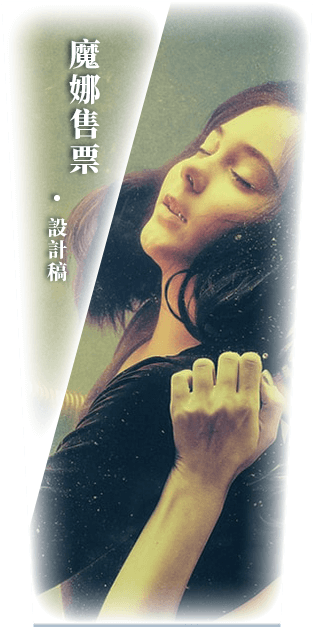
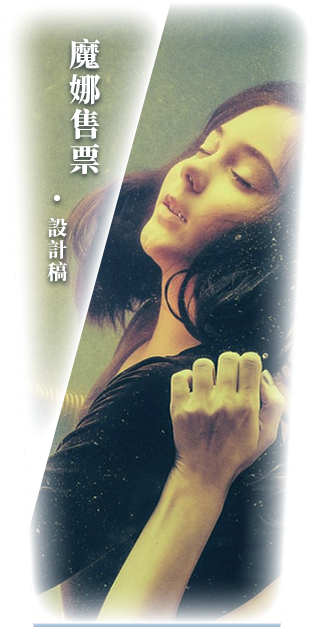
魔娜陰影微調

Changed region(s): [[0.2006, 0.1515, 0.3153, 0.303], [0.1433, 0.303, 0.2293, 0.4545], [0.2006, 0.0606, 0.3153, 0.1515]]

diff --git a/index.html b/index.html
@@ -167,11 +167,11 @@
                         <ul class="skill-list">
                             <li class="animated-l">
                                 <h5>影像處理</h5>
-                                <h6>✦ Illustrator　✦ Photoshop　✦ Painter　✦ Clip Studio Paint　✦ Procreate</h6>
+                                <h6>✦ Photoshop　✦ Illustrator　✦ Painter　✦ Clip Studio Paint　✦ Procreate</h6>
                             </li>
                             <li class="animated-l">
                                 <h5>程式設計</h5>
-                                <h6>✦ HTML　✦ CSS　✦Bootstrap　✦WordPress　✦ jQuery　✦ C#</h6>
+                                <h6>✦ HTML　✦ CSS　✦ jQuery　✦Bootstrap　✦WordPress　✦ C#</h6>
                             </li>
                             <li class="animated-l">
                                 <h5>多媒體設計</h5>
@@ -179,7 +179,7 @@
                             </li>
                             <li class="animated-l">
                                 <h5>專案溝通</h5>
-                                <h6>✦ Adobe XD　✦ Figma　✦ Zeplin　✦ Git　✦ GitHub</h6>
+                                <h6>✦ Adobe XD　✦ Figma　✦ GitHub　✦ Git</h6>
                             </li>
                         </ul>
                     </div>
